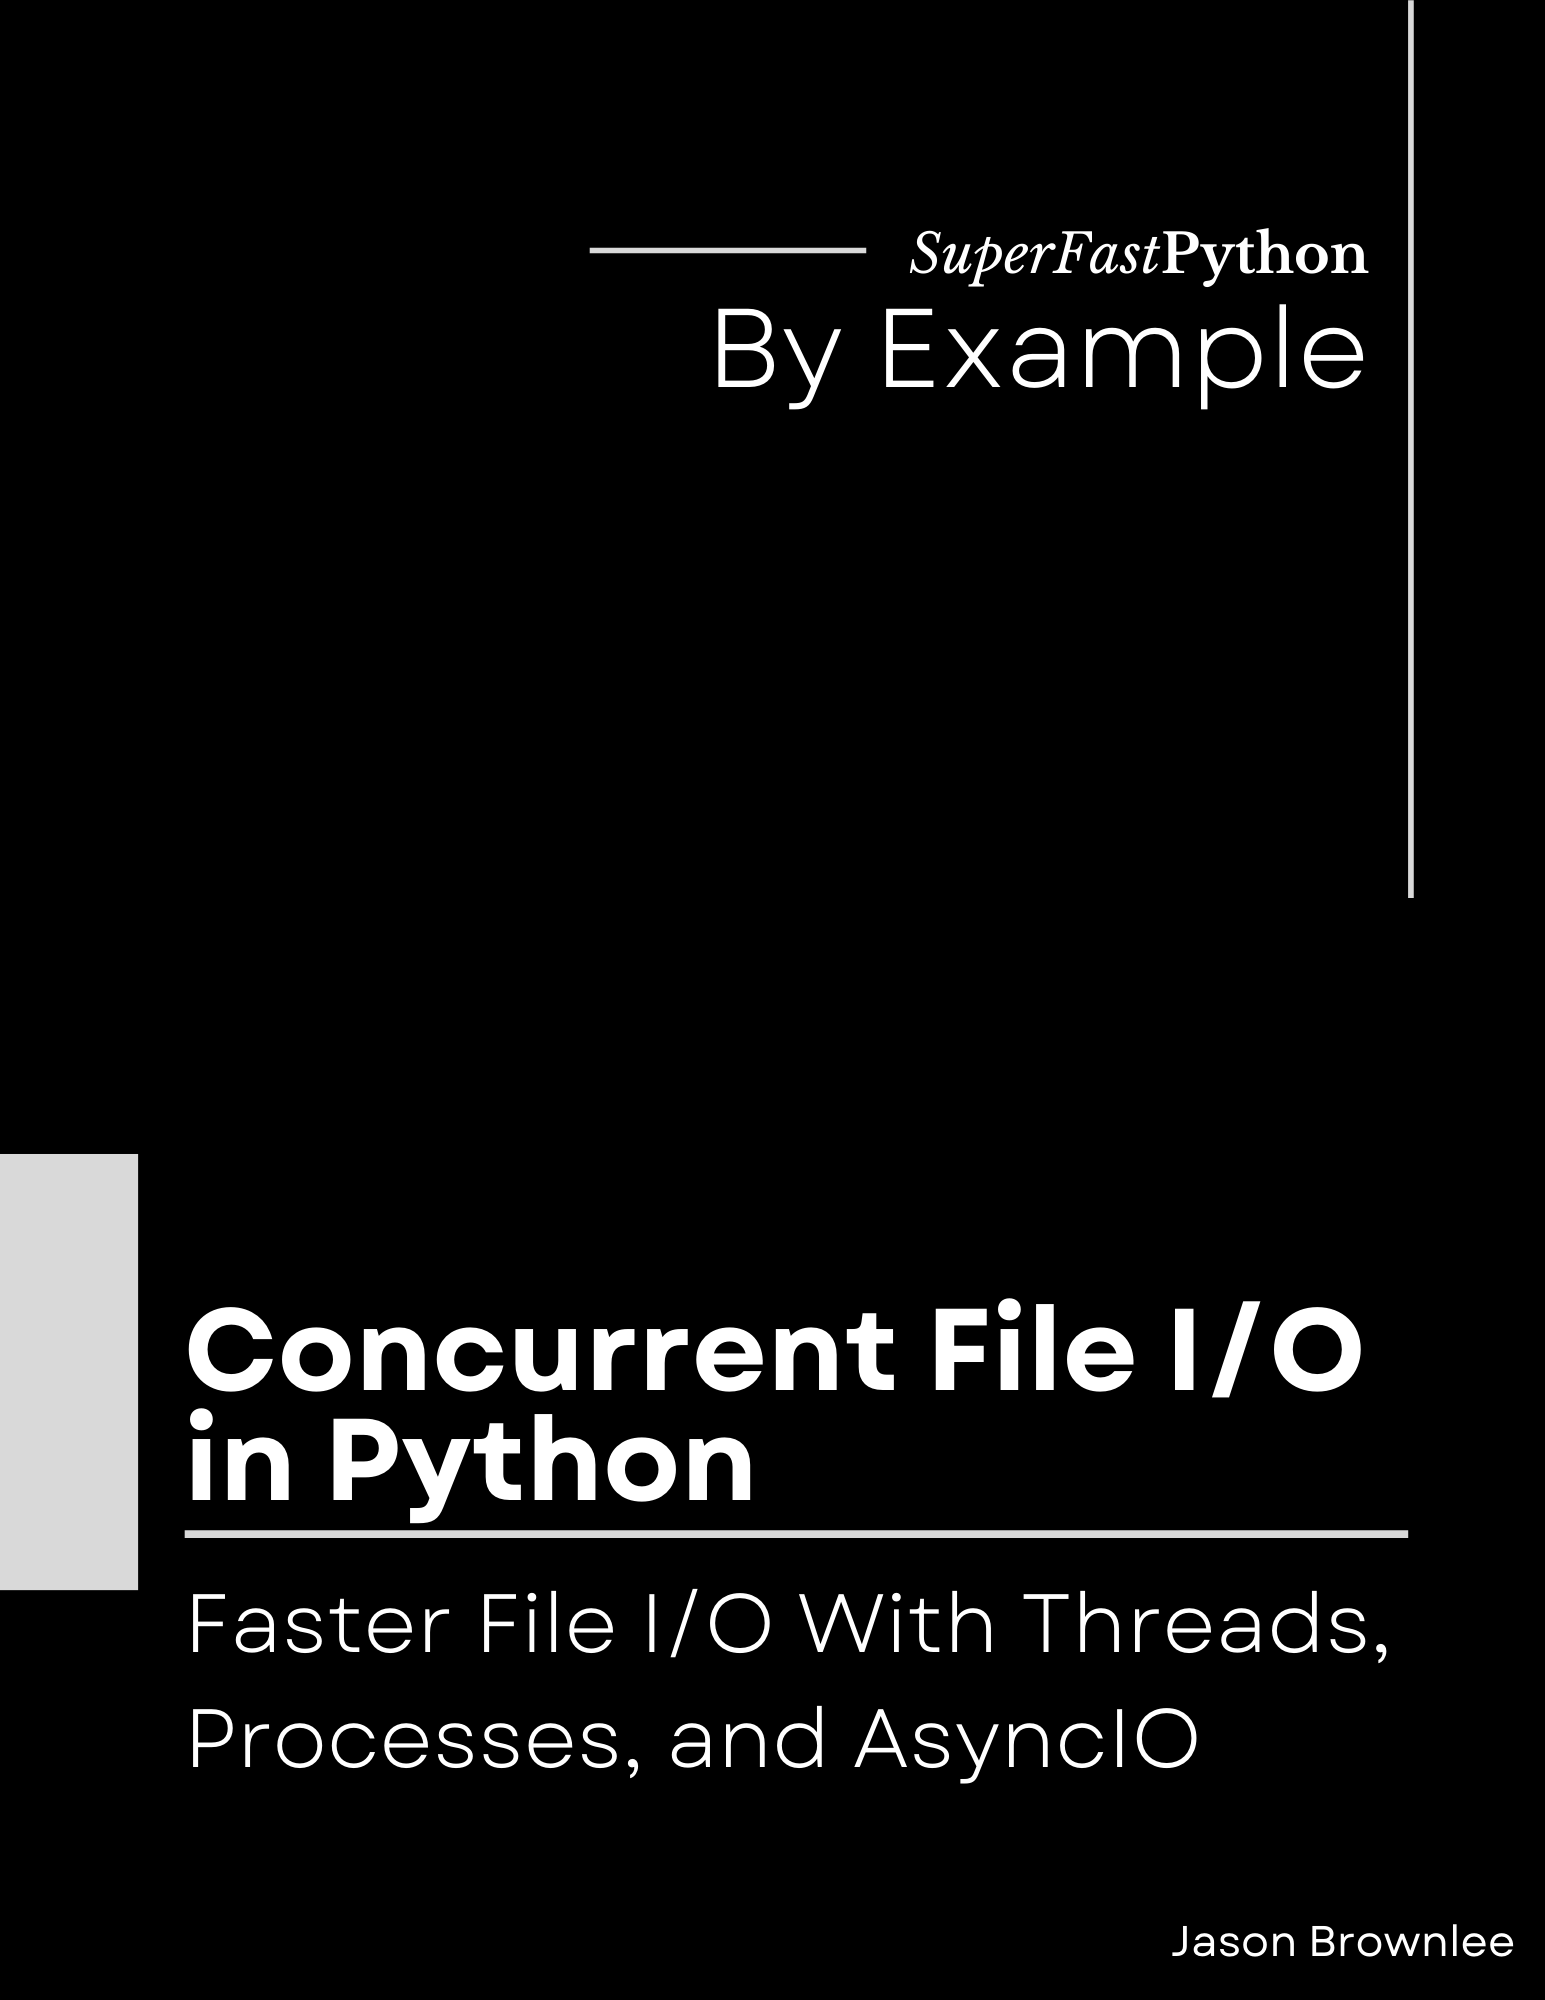
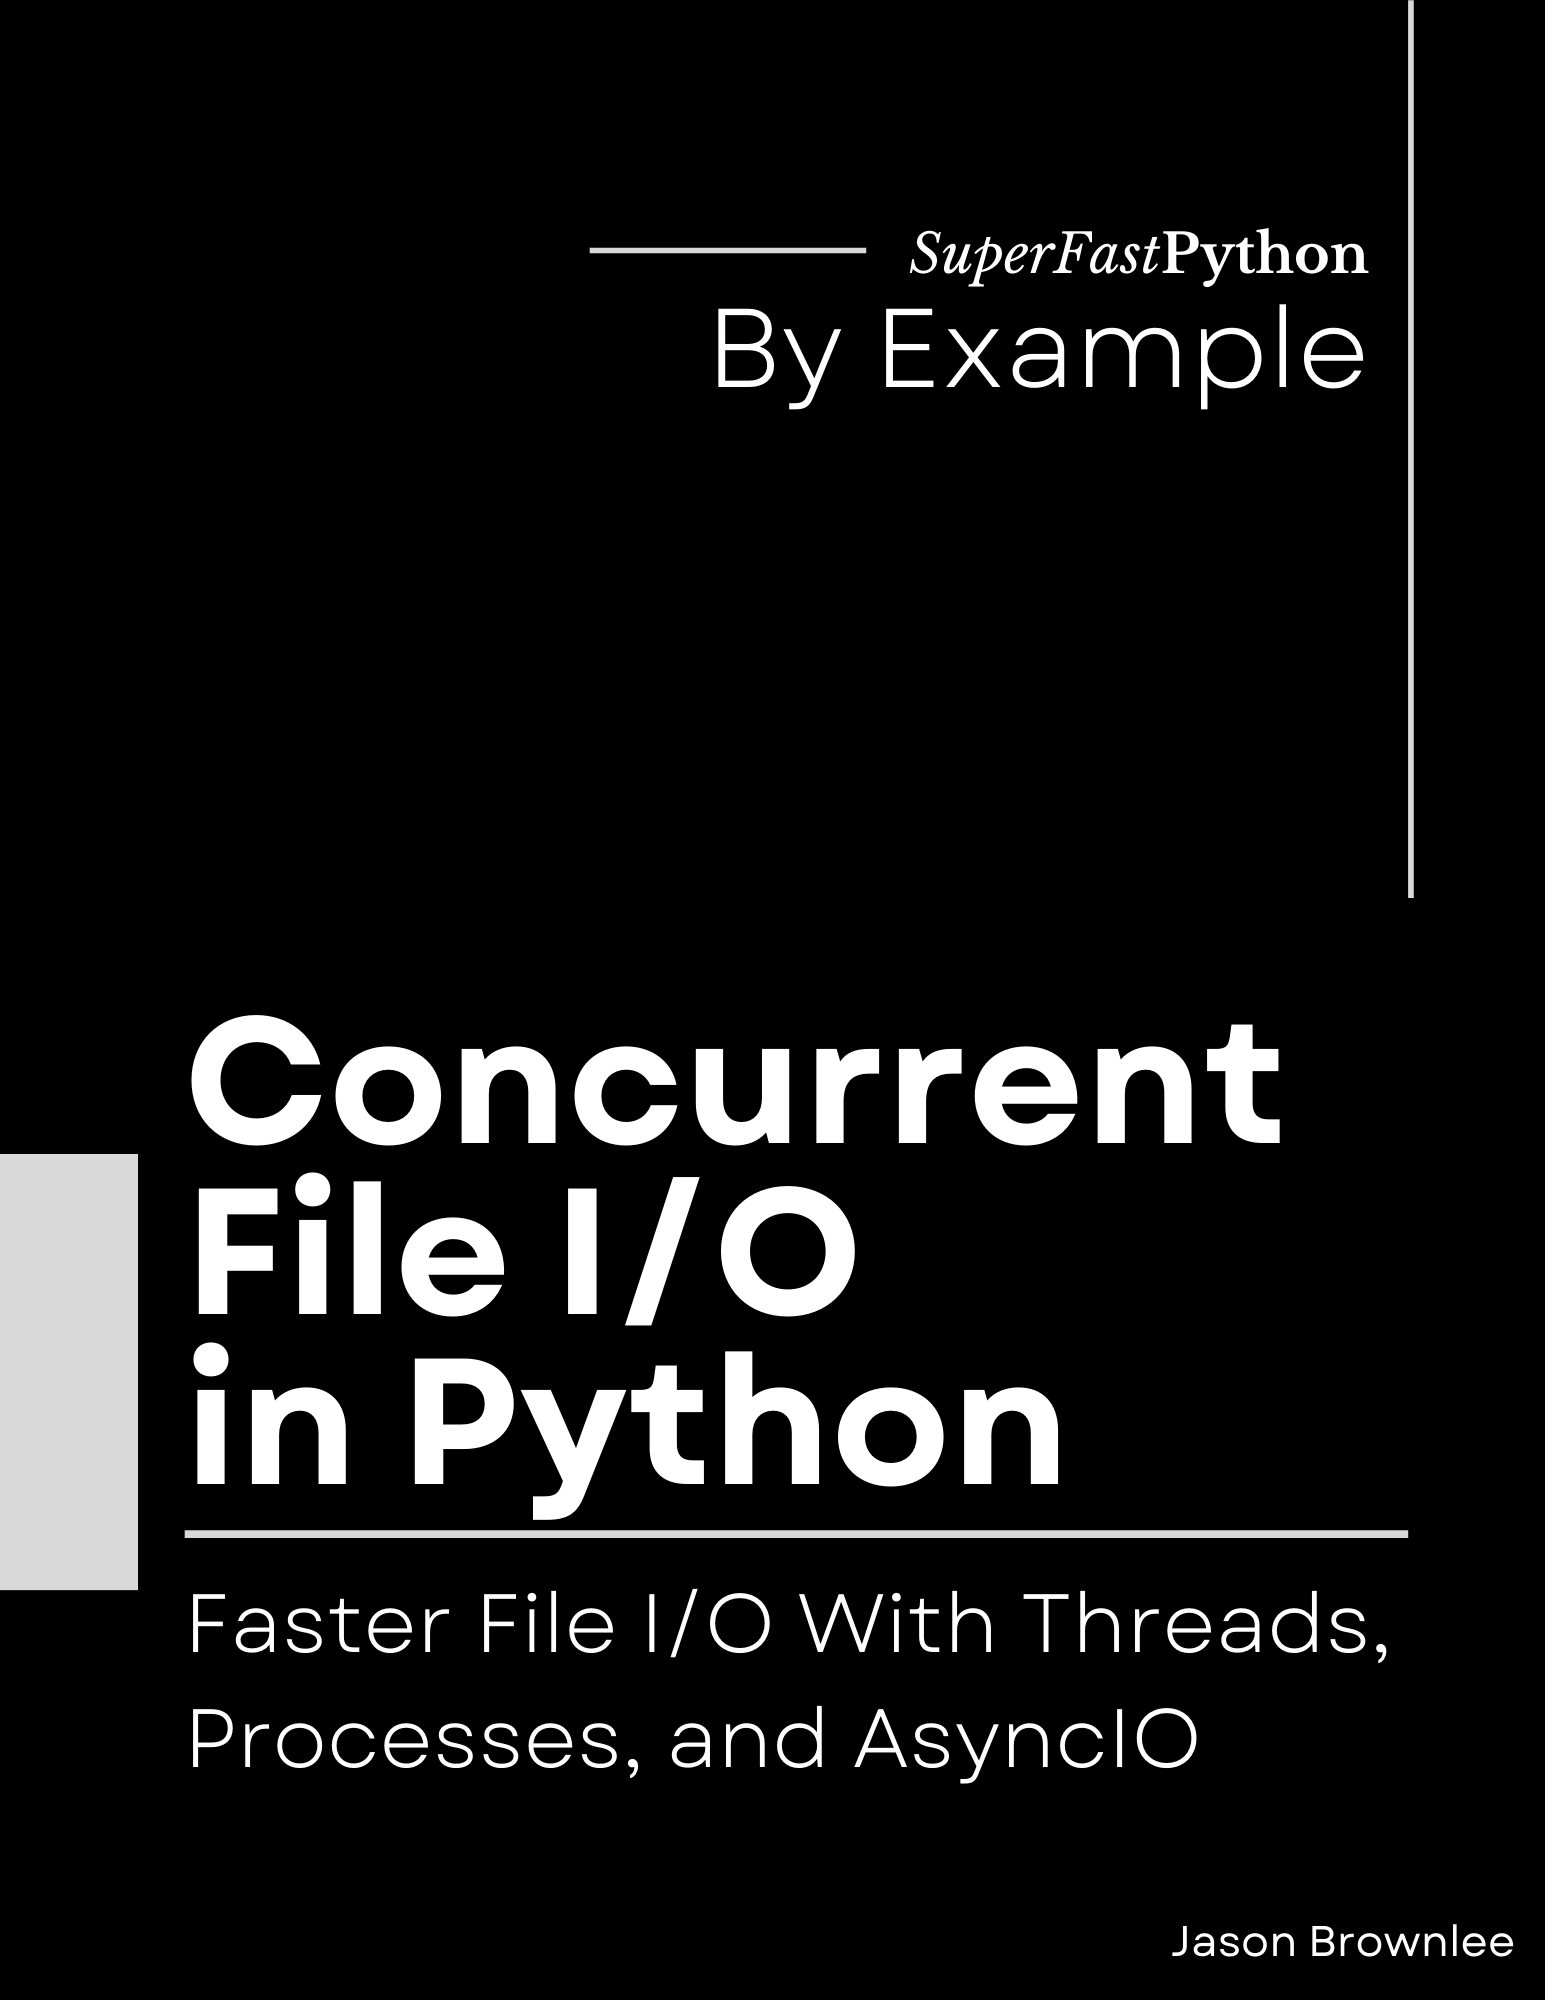
updated cover, added links

Changed region(s): [[0.1243, 0.496, 0.901, 0.775]]

diff --git a/README.md b/README.md
@@ -19,8 +19,12 @@ You can access all Python .py files directly here:
 
 You can learn more about the book here:
 
-* coming soon...
-
+* [Gumroad](https://superfastpython.gumroad.com/l/pcf)
+* [Amazon Kindle](https://amzn.to/3OGrzg2)
+* [Amazon Paperback](https://amzn.to/3P0Ll7j)
+* [Google Books](http://books.google.com/books/about?id=TEnREAAAQBAJ)
+* [Google Play](https://play.google.com/store/books/details?id=TEnREAAAQBAJ)
+* [Goodreads](https://www.goodreads.com/book/show/197088434-concurrent-file-i-o-in-python)
 
 ### Book Blurb
 
